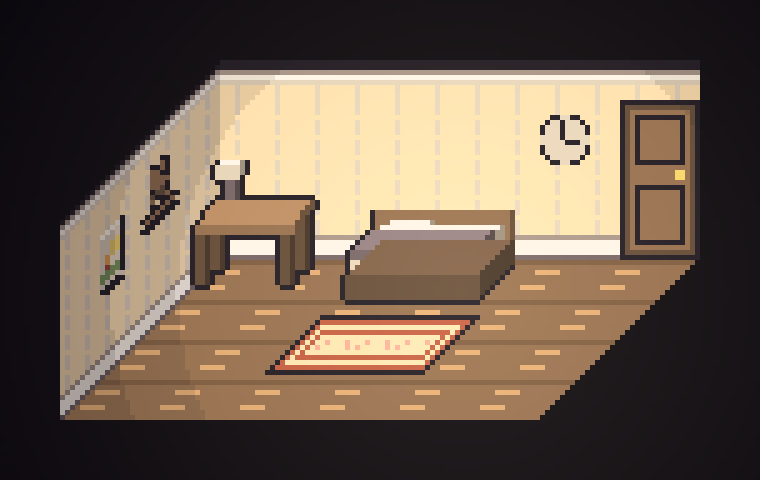
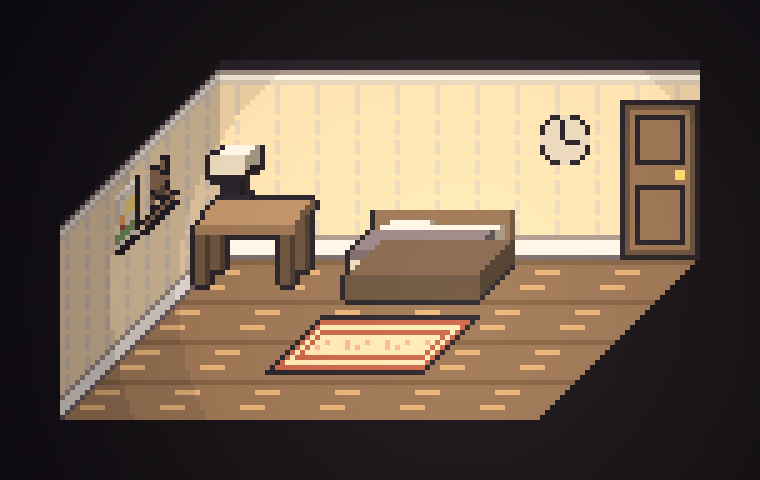
Child room: drawing next to wooden shelf, dark-outlined desk lamp
Claude-Session: https://claude.ai/code/session_01FPZSaKiVNU2zED737yZX4w

Changed region(s): [[0.2724, 0.2812, 0.3632, 0.4375], [0.1211, 0.375, 0.1816, 0.625]]

diff --git a/tools/render_room.py b/tools/render_room.py
@@ -69,7 +69,7 @@ def render_room(path, scale=1):
                 nm, _, lift = obj.partition('^'); stamp(nm, X0 + SK * D + (c - c0) * T, by - zb - int(lift or 0))
     # 왼쪽 벽의 사물: 세로 선은 그대로, 깊이 방향은 SK 배로 눌리고 SS 만큼 올라가는 기울임
     for tok in extra.get('left_add', '').split():
-        nm, at = tok.split('@'); dc, _, lift = at.partition('^'); d0 = int(dc) * T; sp = lib[nm]
+        nm, at = tok.split('@'); dc, _, lift = at.partition('^'); d0 = int(float(dc) * T); sp = lib[nm]
         for u in range(sp.width):
             for v in range(sp.height):
                 p = sp.getpixel((u, v))
